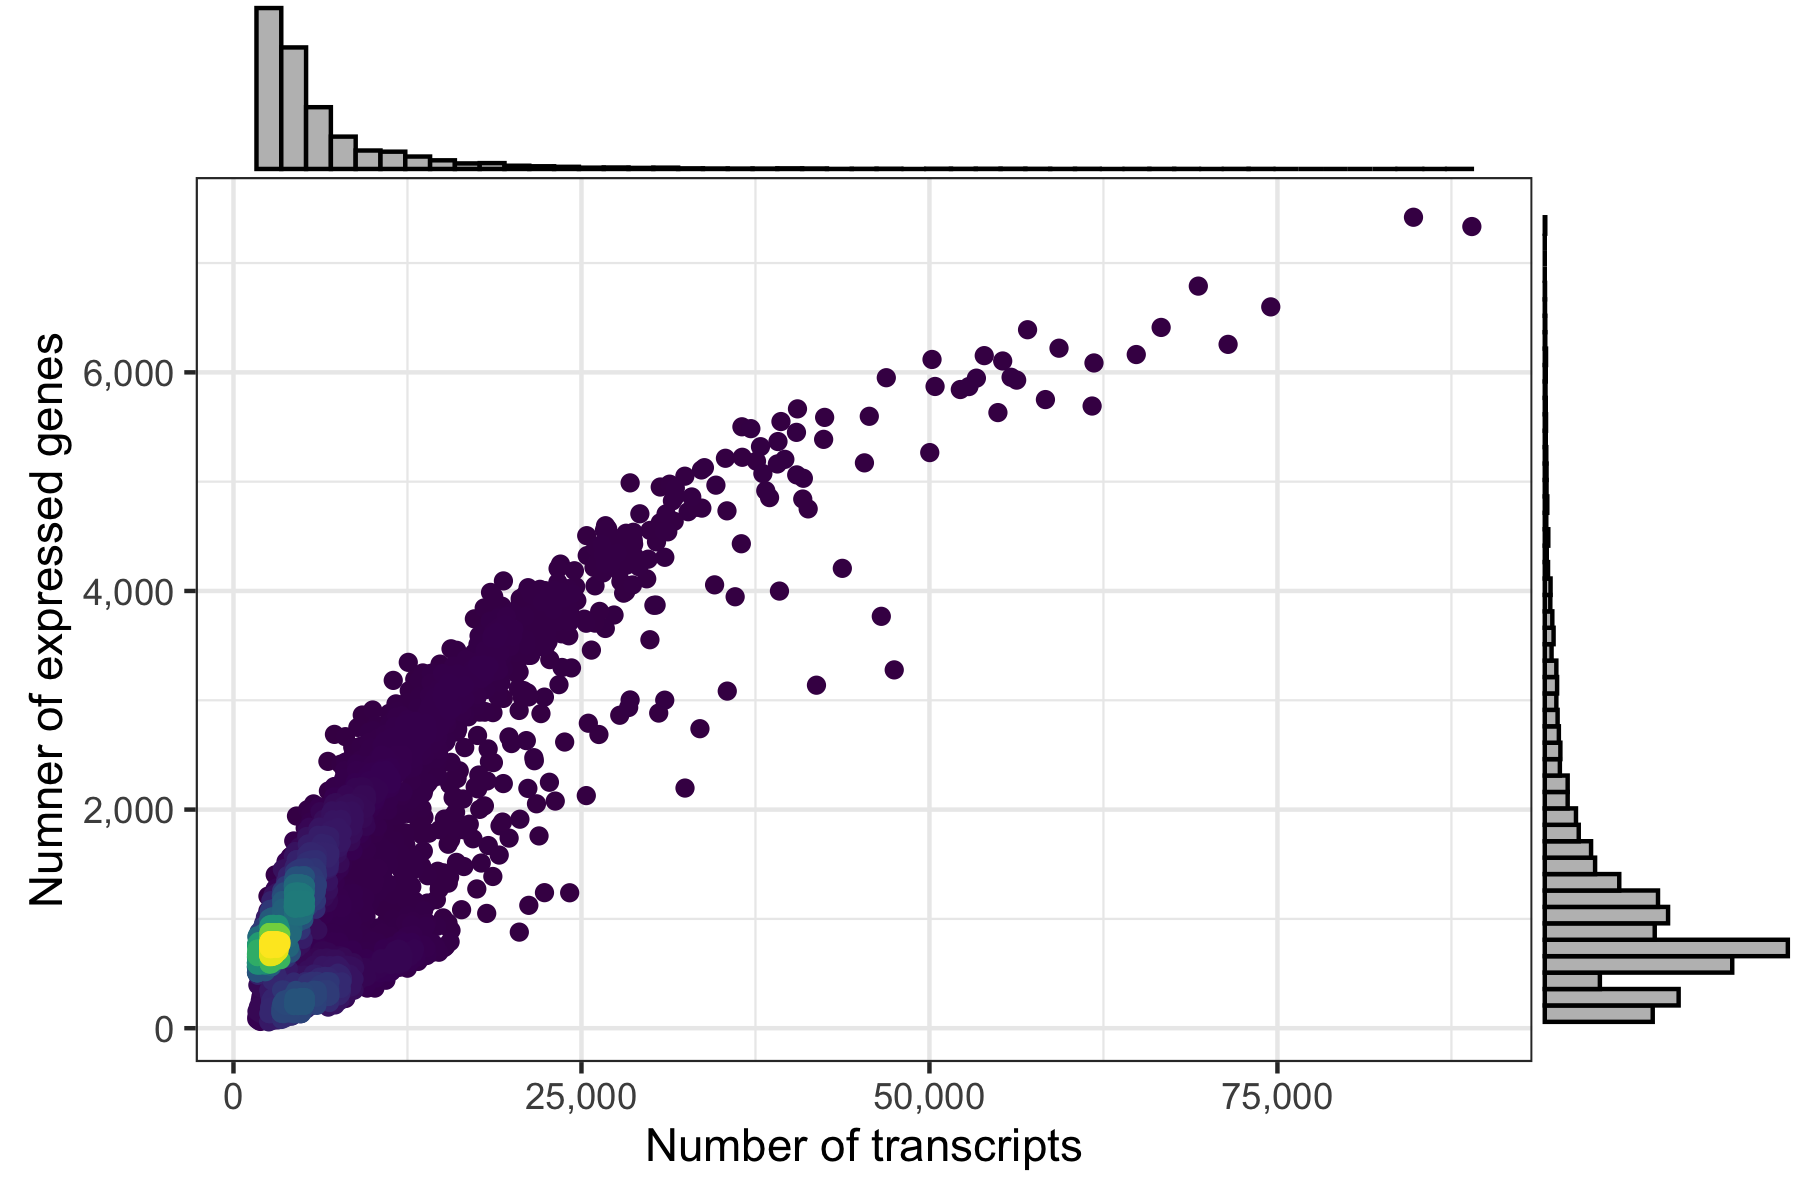
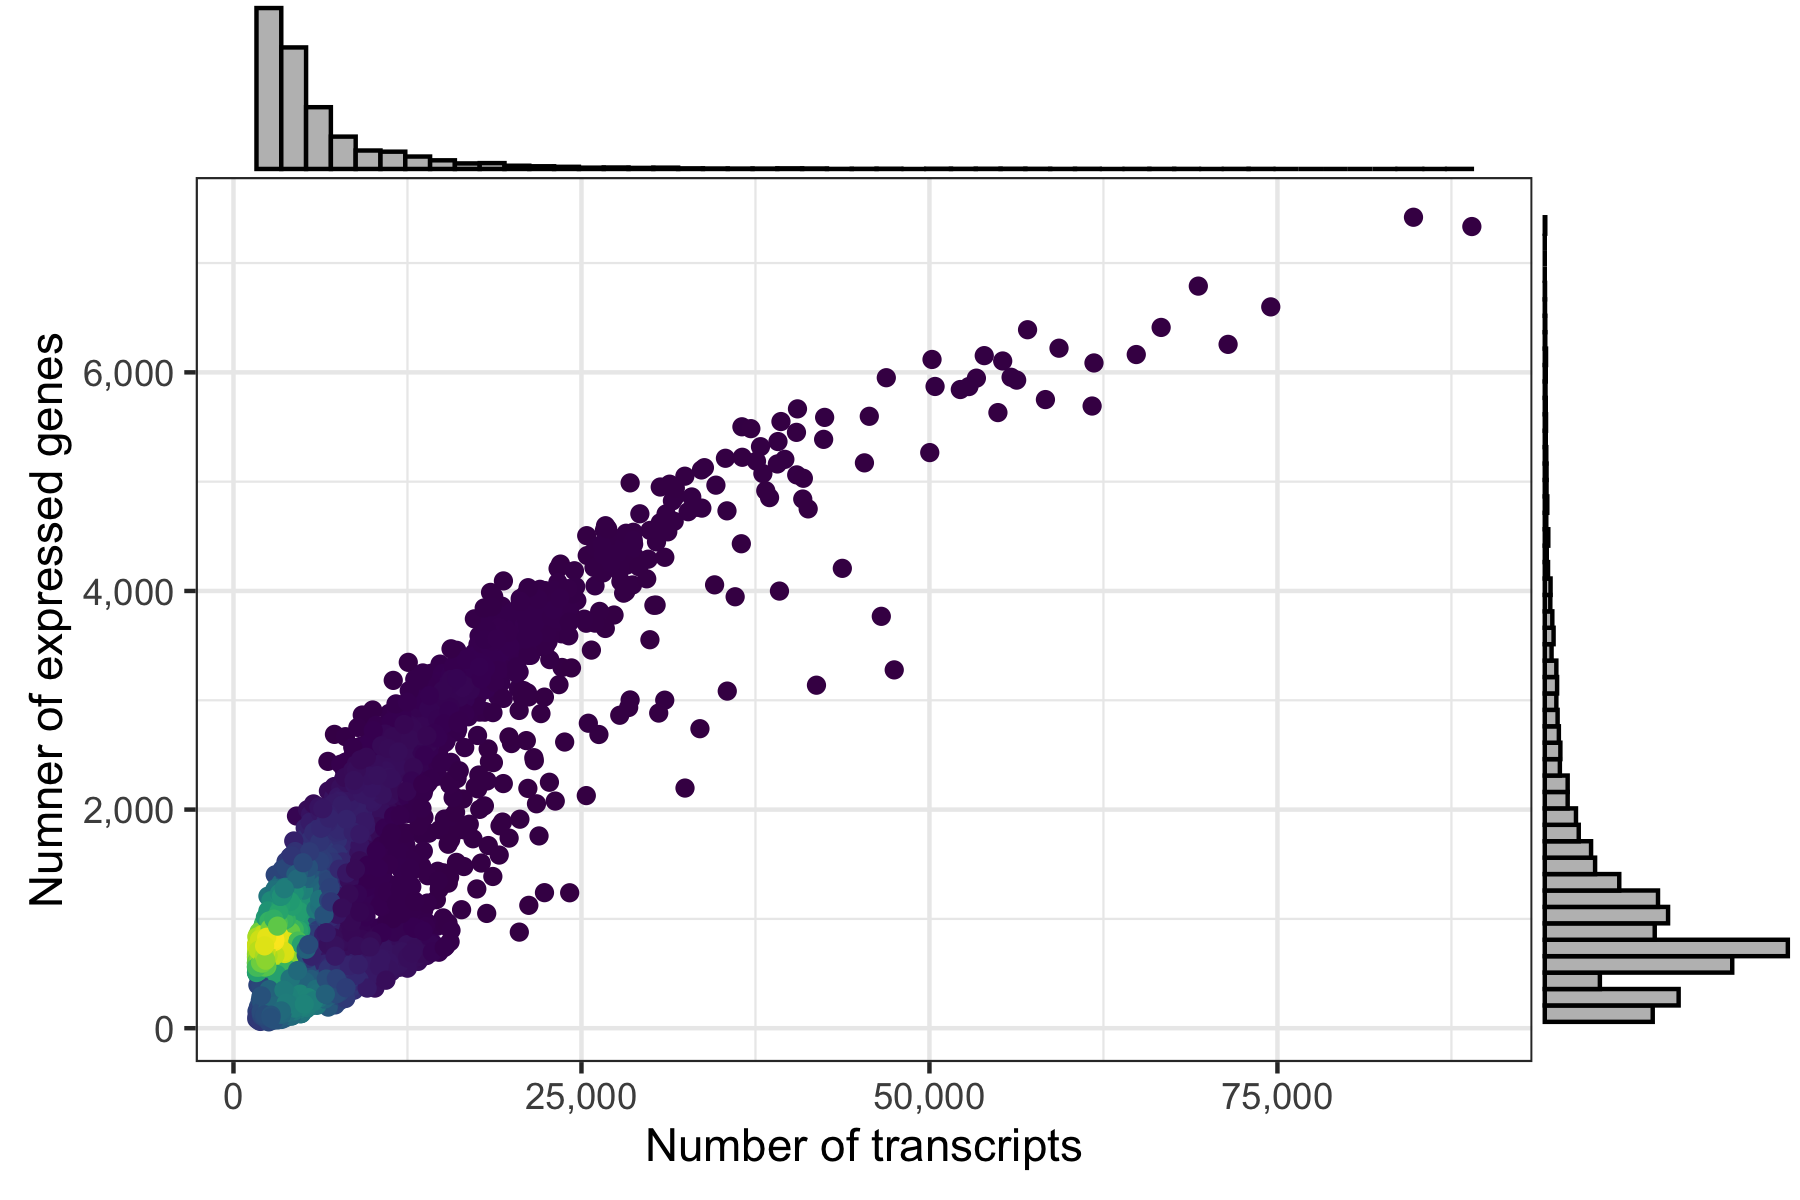
Update text in scRNA-seq workflow; update scatter plot #5.

Changed region(s): [[0.1244, 0.6783, 0.2178, 0.8633]]

diff --git a/plots/scatter/5/index.html b/plots/scatter/5/index.html
@@ -81,7 +81,6 @@
           <div class="article-post">
             <div class="highlight"><pre style="background-color:#fff;-moz-tab-size:2;-o-tab-size:2;tab-size:2"><code class="language-r" data-lang="r"><span style="color:#900;font-weight:bold">library</span>(tidyverse)
 <span style="color:#900;font-weight:bold">library</span>(ggExtra)
-<span style="color:#900;font-weight:bold">library</span>(MASS)
 <span style="color:#900;font-weight:bold">library</span>(viridis)
 
 cells <span style="color:#000;font-weight:bold">&lt;-</span> <span style="color:#900;font-weight:bold">tibble</span>(
@@ -97,34 +96,13 @@ cells <span style="color:#000;font-weight:bold">%&gt;%</span> <span style="color
 <span style="color:#998;font-style:italic"># $ nCount   &lt;dbl&gt; 5784, 6037, 4655, 42398, 14765, 4621, 14368, 4570, 6635, 113…</span>
 <span style="color:#998;font-style:italic"># $ nFeature &lt;dbl&gt; 1655, 1397, 1300, 5387, 2548, 295, 2929, 1056, 1720, 638, 27…</span>
 
-<span style="color:#998;font-style:italic"># calculate density of dots as described on:</span>
-<span style="color:#998;font-style:italic"># https://slowkow.com/notes/ggplot2-color-by-density/</span>
-get_density <span style="color:#000;font-weight:bold">&lt;-</span> <span style="color:#900;font-weight:bold">function</span>(x, y, <span style="color:#000;font-weight:bold">...</span>) {
-  dens <span style="color:#000;font-weight:bold">&lt;-</span> MASS<span style="color:#000;font-weight:bold">::</span><span style="color:#900;font-weight:bold">kde2d</span>(x, y, <span style="color:#000;font-weight:bold">...</span>)
-  ix <span style="color:#000;font-weight:bold">&lt;-</span> <span style="color:#900;font-weight:bold">findInterval</span>(x, dens<span style="color:#000;font-weight:bold">$</span>x)
-  iy <span style="color:#000;font-weight:bold">&lt;-</span> <span style="color:#900;font-weight:bold">findInterval</span>(y, dens<span style="color:#000;font-weight:bold">$</span>y)
-  ii <span style="color:#000;font-weight:bold">&lt;-</span> <span style="color:#900;font-weight:bold">cbind</span>(ix, iy)
-  <span style="color:#900;font-weight:bold">return</span>(dens<span style="color:#000;font-weight:bold">$</span>z[ii])
-}
-
-cells <span style="color:#000;font-weight:bold">&lt;-</span> cells <span style="color:#000;font-weight:bold">%&gt;%</span>
-  <span style="color:#900;font-weight:bold">mutate</span>(density <span style="color:#000;font-weight:bold">=</span> <span style="color:#900;font-weight:bold">get_density</span>(nCount, nFeature, n <span style="color:#000;font-weight:bold">=</span> <span style="color:#099">100</span>)) <span style="color:#000;font-weight:bold">%&gt;%</span>
-  <span style="color:#900;font-weight:bold">arrange</span>(density)
-
-cells <span style="color:#000;font-weight:bold">%&gt;%</span> <span style="color:#900;font-weight:bold">glimpse</span>()
-<span style="color:#998;font-style:italic"># Observations: 6,000</span>
-<span style="color:#998;font-style:italic"># Variables: 4</span>
-<span style="color:#998;font-style:italic"># $ cell     &lt;chr&gt; &#34;TGCCCATGTGTTCGAT-A&#34;, &#34;ACGGCCACAAGAAGAG-A&#34;, &#34;CTGTGCTGTCAGAAG…</span>
-<span style="color:#998;font-style:italic"># $ nCount   &lt;dbl&gt; 5784, 6037, 4655, 42398, 14765, 4621, 14368, 4570, 6635, 113…</span>
-<span style="color:#998;font-style:italic"># $ nFeature &lt;dbl&gt; 1655, 1397, 1300, 5387, 2548, 295, 2929, 1056, 1720, 638, 27…</span>
-<span style="color:#998;font-style:italic"># $ density  &lt;dbl&gt; 5.143103e-08, 8.837126e-08, 1.707788e-07, 3.781027e-10, 6.79…</span>
-
 p <span style="color:#000;font-weight:bold">&lt;-</span> <span style="color:#900;font-weight:bold">ggplot</span>(cells, <span style="color:#900;font-weight:bold">aes</span>(nCount, nFeature)) <span style="color:#000;font-weight:bold">+</span>
-  <span style="color:#900;font-weight:bold">geom_point</span>(<span style="color:#900;font-weight:bold">aes</span>(color <span style="color:#000;font-weight:bold">=</span> density), show.legend <span style="color:#000;font-weight:bold">=</span> <span style="color:#000;font-weight:bold">FALSE</span>) <span style="color:#000;font-weight:bold">+</span>
+  <span style="color:#900;font-weight:bold">geom_pointdensity</span>(adjust <span style="color:#000;font-weight:bold">=</span> <span style="color:#099">500</span>) <span style="color:#000;font-weight:bold">+</span>
   <span style="color:#900;font-weight:bold">scale_x_continuous</span>(name <span style="color:#000;font-weight:bold">=</span> <span style="color:#d14">&#39;</span><span style="color:#d14">Number of transcripts&#39;</span>, labels <span style="color:#000;font-weight:bold">=</span> scales<span style="color:#000;font-weight:bold">::</span>comma) <span style="color:#000;font-weight:bold">+</span>
   <span style="color:#900;font-weight:bold">scale_y_continuous</span>(name <span style="color:#000;font-weight:bold">=</span> <span style="color:#d14">&#39;</span><span style="color:#d14">Numner of expressed genes&#39;</span>, labels <span style="color:#000;font-weight:bold">=</span> scales<span style="color:#000;font-weight:bold">::</span>comma) <span style="color:#000;font-weight:bold">+</span>
   <span style="color:#900;font-weight:bold">scale_color_viridis</span>() <span style="color:#000;font-weight:bold">+</span>
-  <span style="color:#900;font-weight:bold">theme_bw</span>()
+  <span style="color:#900;font-weight:bold">theme_bw</span>() <span style="color:#000;font-weight:bold">+</span>
+  <span style="color:#900;font-weight:bold">theme</span>(legend.position <span style="color:#000;font-weight:bold">=</span> <span style="color:#d14">&#39;</span><span style="color:#d14">none&#39;</span>)
 p <span style="color:#000;font-weight:bold">&lt;-</span> <span style="color:#900;font-weight:bold">ggMarginal</span>(p, type <span style="color:#000;font-weight:bold">=</span> <span style="color:#d14">&#39;</span><span style="color:#d14">histogram&#39;</span>, fill <span style="color:#000;font-weight:bold">=</span> <span style="color:#d14">&#39;</span><span style="color:#d14">grey&#39;</span>, bins <span style="color:#000;font-weight:bold">=</span> <span style="color:#099">50</span>)
 
 <span style="color:#900;font-weight:bold">ggsave</span>(<span style="color:#d14">&#39;</span><span style="color:#d14">5.png&#39;</span>, p, height <span style="color:#000;font-weight:bold">=</span> <span style="color:#099">4</span>, width <span style="color:#000;font-weight:bold">=</span> <span style="color:#099">6</span>)

diff --git a/tags/ggplot/page/3/index.html b/tags/ggplot/page/3/index.html
@@ -152,7 +152,7 @@
     <div class="card-body">
       <h2 class="card-title"><a class="text-dark" href="http://romanhaa.github.io/plots/scatter/5/">Scatter plot 5</a></h2>
       <h4 class="card-text">Jan 1, 0001</h4>
-      <h4 class="card-text">library(tidyverse) library(ggExtra) library(MASS) library(viridis) cells &lt;- tibble( cell = colnames(transcripts$raw$merged), nCount = colSums(transcripts$raw$merged), nFeature = colSums(transcripts$raw$merged != 0) ) cells %&gt;% glimpse() # Observations: 6,000 # Variables: 3 # $ cell &lt;chr&gt; &#34;TGCCCATGTGTTCGAT-A&#34;, &#34;ACGGCCACAAGAAGAG-A&#34;, &#34;CTGTGCTGTCAGAAG… # $ nCount &lt;dbl&gt; 5784, 6037, 4655, 42398, 14765, 4621, 14368, 4570, 6635, 113… # $ nFeature &lt;dbl&gt; 1655, 1397, 1300, 5387, 2548, 295, 2929, 1056, 1720, 638, 27… # calculate density of dots as described on: # https://slowkow.</h4>
+      <h4 class="card-text">library(tidyverse) library(ggExtra) library(viridis) cells &lt;- tibble( cell = colnames(transcripts$raw$merged), nCount = colSums(transcripts$raw$merged), nFeature = colSums(transcripts$raw$merged != 0) ) cells %&gt;% glimpse() # Observations: 6,000 # Variables: 3 # $ cell &lt;chr&gt; &#34;TGCCCATGTGTTCGAT-A&#34;, &#34;ACGGCCACAAGAAGAG-A&#34;, &#34;CTGTGCTGTCAGAAG… # $ nCount &lt;dbl&gt; 5784, 6037, 4655, 42398, 14765, 4621, 14368, 4570, 6635, 113… # $ nFeature &lt;dbl&gt; 1655, 1397, 1300, 5387, 2548, 295, 2929, 1056, 1720, 638, 27… p &lt;- ggplot(cells, aes(nCount, nFeature)) + geom_pointdensity(adjust = 500) + scale_x_continuous(name = &#39;Number of transcripts&#39;, labels = scales::comma) + scale_y_continuous(name = &#39;Numner of expressed genes&#39;, labels = scales::comma) + scale_color_viridis() + theme_bw() + theme(legend.</h4>
     </div>
   </div>
 </div>

diff --git a/projects/scrnaseq_workflow/index.html b/projects/scrnaseq_workflow/index.html
@@ -2255,6 +2255,7 @@ p <span style="color:#000;font-weight:bold">&lt;-</span> <span style="color:#900
     color <span style="color:#000;font-weight:bold">=</span> <span style="color:#d14">&#39;</span><span style="color:#d14">black&#39;</span>,
     fontface <span style="color:#000;font-weight:bold">=</span> <span style="color:#d14">&#39;</span><span style="color:#d14">bold&#39;</span>,
     alpha <span style="color:#000;font-weight:bold">=</span> <span style="color:#099">0.5</span>,
+    label.size <span style="color:#000;font-weight:bold">=</span> <span style="color:#099">0</span>,
     show.legend <span style="color:#000;font-weight:bold">=</span> <span style="color:#000;font-weight:bold">FALSE</span>
   ) <span style="color:#000;font-weight:bold">+</span>
   <span style="color:#900;font-weight:bold">theme_bw</span>() <span style="color:#000;font-weight:bold">+</span>
